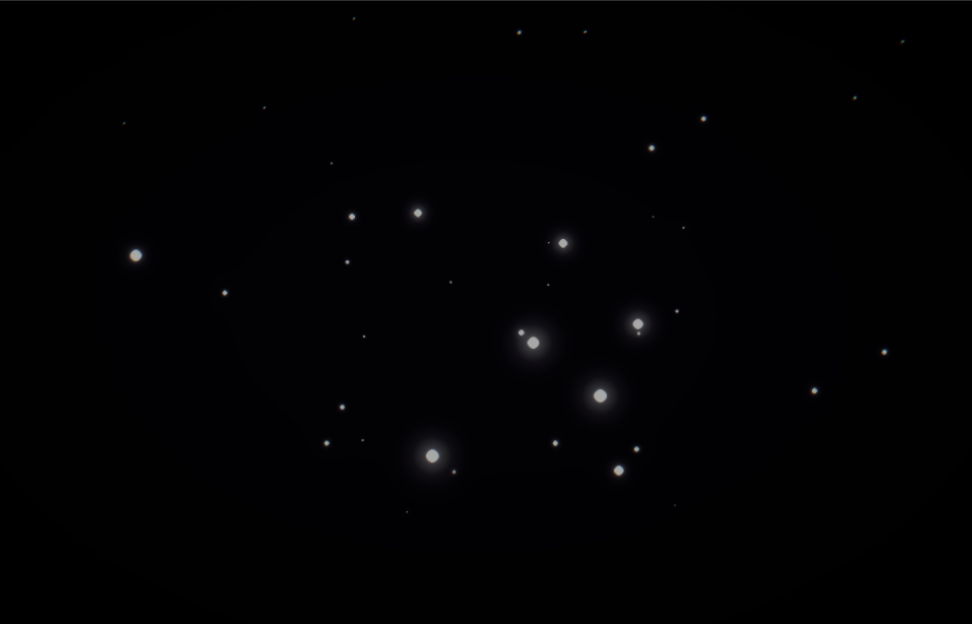
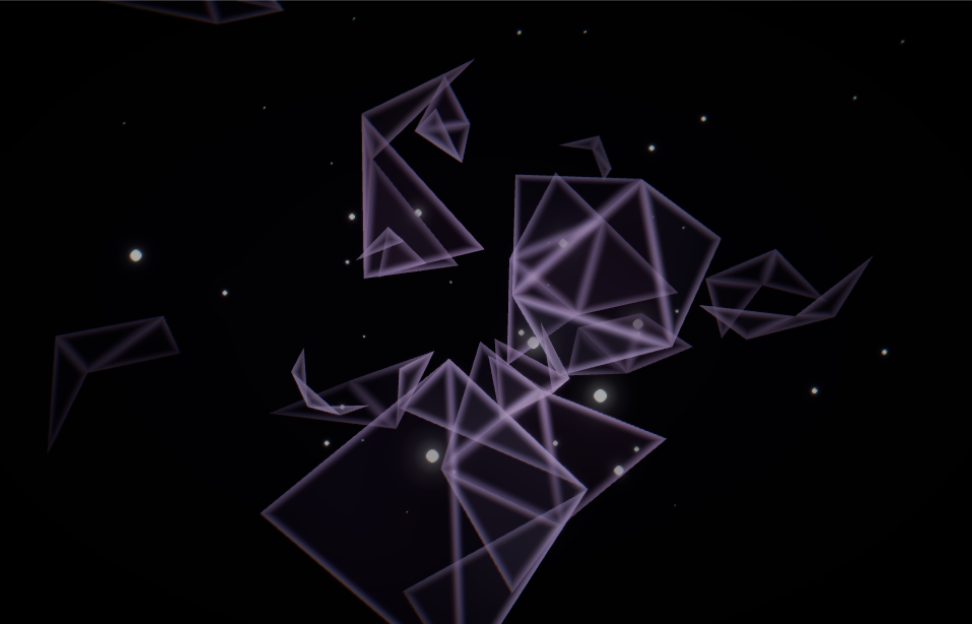
wi[p
abc

diff --git a/src/engine/scene-builder.js b/src/engine/scene-builder.js
@@ -4,6 +4,27 @@
  */
 
 import * as THREE from 'three';
+import { pickShapeType, extractFaces } from './polyhedra.js';
+import { createFaceGeometry } from './plane-geometry.js';
+import { createShardMaterial } from './materials.js';
+
+/**
+ * HSL to RGB in 0–1 range (h in degrees, s and l in 0–1).
+ */
+function hslToRgb01(h, s, l) {
+    h = ((h % 360) + 360) % 360;
+    const c = (1 - Math.abs(2 * l - 1)) * s;
+    const x = c * (1 - Math.abs(((h / 60) % 2) - 1));
+    const m = l - c / 2;
+    let r, g, b;
+    if (h < 60)       { r = c; g = x; b = 0; }
+    else if (h < 120) { r = x; g = c; b = 0; }
+    else if (h < 180) { r = 0; g = c; b = x; }
+    else if (h < 240) { r = 0; g = x; b = c; }
+    else if (h < 300) { r = x; g = 0; b = c; }
+    else              { r = c; g = 0; b = x; }
+    return [r + m, g + m, b + m];
+}
 
 /**
  * Solid white circle for the dot core.
@@ -59,12 +80,12 @@ function addDot(scene, pos, dotSize, spriteTexture, glowTexture, white, lightInt
     scene.add(core);
 
     // Glow halo — additive, larger than the core, intensity scales with size
-    const glowScale = dotSize * (4 + lightIntensity * 2);
+    const glowScale = Math.max(dotSize * 3, dotSize * (4 + lightIntensity * 2));
     const glowMat = new THREE.SpriteMaterial({
         map: glowTexture,
         color: white,
         transparent: true,
-        opacity: Math.min(1.0, 0.3 + lightIntensity * 0.15),
+        opacity: Math.min(1.0, Math.max(0.1, 0.3 + lightIntensity * 0.15)),
         blending: THREE.AdditiveBlending,
         depthWrite: false,
     });
@@ -74,12 +95,11 @@ function addDot(scene, pos, dotSize, spriteTexture, glowTexture, white, lightInt
     glow.renderOrder = 0;
     scene.add(glow);
 
-    // Point light — for illuminating future geometry
-    if (lightIntensity > 0.1) {
-        const light = new THREE.PointLight(0xffffff, lightIntensity, dotSize * 30, 1.5);
-        light.position.copy(pos);
-        scene.add(light);
-    }
+    // Point light — every dot emanates light, small dots get a faint one
+    const li = Math.max(0.05, lightIntensity);
+    const light = new THREE.PointLight(0xffffff, li, dotSize * 30 + 1.0, 1.5);
+    light.position.copy(pos);
+    scene.add(light);
 }
 
 /**
@@ -99,6 +119,10 @@ export function buildScene(params, rng, scene) {
     const largeMin = 0.09 - fracture * 0.025;
     const largeRange = 0.15 - fracture * 0.05;
 
+    const largeDotPositions = [];
+    const largeDotIntensities = [];
+    const largeDotSizes = [];
+
     for (let i = 0; i < largeDotCount; i++) {
         const sizeFactor = 0.4 + rng() * 0.6;
         const dotSize = largeMin + sizeFactor * largeRange;
@@ -111,6 +135,10 @@ export function buildScene(params, rng, scene) {
         // Large dots get strong light, scaled by size and luminosity
         const lightIntensity = (1.0 + sizeFactor * 2.0) * luminosity;
         addDot(scene, pos, dotSize, spriteTexture, glowTexture, white, lightIntensity);
+
+        largeDotPositions.push(pos.clone());
+        largeDotIntensities.push(lightIntensity);
+        largeDotSizes.push(dotSize);
     }
 
     // --- Small scattered dots: always ≥5× large count ---
@@ -133,5 +161,86 @@ export function buildScene(params, rng, scene) {
         addDot(scene, pos, dotSize, spriteTexture, glowTexture, white, lightIntensity);
     }
 
-    return { nodeCount: largeDotCount + smallDotCount };
+    // --- Crystal planes: translucent faces illuminated by dot lights ---
+    const unfoldAmount = params.unfoldAmount || 0;
+    const lightFractalLevel = Math.max(0, Math.min(1, fracture * luminosity));
+
+    let crystalFaceCount = 0;
+
+    // Helper: create a crystal cluster at a position and add its faces to the scene
+    function addCrystalCluster(clusterPos, scale, faces_max) {
+        const shapeType = pickShapeType(rng, fracture);
+        const orientation = new THREE.Quaternion().setFromEuler(
+            new THREE.Euler(rng() * Math.PI * 2, rng() * Math.PI * 2, rng() * Math.PI * 2),
+        );
+        const faces = extractFaces(shapeType, clusterPos, orientation, scale, rng, faces_max, unfoldAmount);
+
+        const hue = params.baseHue + (rng() * 2 - 1) * (params.hueRange * 0.5);
+        const baseColor = hslToRgb01(hue, params.saturation, params.lightness);
+
+        // Planes are passive — lit by dots, not self-luminous.
+        // Thin crisp edges, low emissive, light shines through.
+        const material = createShardMaterial({
+            baseColor,
+            edgeColor: params.edgeColor,
+            fogColor: params.fogColor,
+            opacity: params.opacity,
+            emissiveStrength: params.emissiveStrength * 0.3,
+            fresnelPower: params.fresnelPower,
+            edgeGlowStrength: params.edgeGlowStrength * 0.25,
+            fogDensity: params.fogDensity,
+            cameraDistance: params.cameraDistance,
+            nodePositions: largeDotPositions,
+            nodeIntensities: largeDotIntensities,
+            nodeCount: Math.min(8, largeDotPositions.length),
+            nodeBrightness: params.nodeBrightness * 0.25,
+            nodeRadius: Math.min(params.nodeRadius, 2.5),
+            causticStrength: params.causticStrength,
+            iridescenceStrength: params.iridescenceStrength,
+            lightFractalLevel,
+            edgeThickness: 8.0,
+            edgeBrightness: params.edgeBrightness * 0.35,
+        });
+
+        for (const face of faces) {
+            const { geometry, position, quaternion } = createFaceGeometry(face);
+            const mesh = new THREE.Mesh(geometry, material);
+            mesh.position.copy(position);
+            mesh.quaternion.copy(quaternion);
+            mesh.renderOrder = 2;
+            scene.add(mesh);
+        }
+        crystalFaceCount += faces.length;
+    }
+
+    // --- Primary clusters: one per anchor dot, 3–5 faces each ---
+    for (let i = 0; i < largeDotCount; i++) {
+        const dotPos = largeDotPositions[i];
+        const offDist = 0.5 + rng() * 0.8;
+        const offTheta = rng() * Math.PI * 2;
+        const offPhi = Math.acos(rng() * 2 - 1);
+        const crystalPos = dotPos.clone().add(new THREE.Vector3(
+            offDist * Math.sin(offPhi) * Math.cos(offTheta),
+            offDist * Math.sin(offPhi) * Math.sin(offTheta),
+            offDist * Math.cos(offPhi),
+        ));
+        const scale = 0.8 + rng() * 1.5;
+        const maxFaces = 3 + Math.round(fracture * 2);
+        addCrystalCluster(crystalPos, scale, maxFaces);
+    }
+
+    // --- Secondary planes: scattered throughout the volume ---
+    const secondaryCount = Math.round(3 + params.density * 10);
+    for (let i = 0; i < secondaryCount; i++) {
+        const pos = new THREE.Vector3(
+            (rng() * 2 - 1) * scatterRange * 1.4,
+            (rng() * 2 - 1) * scatterRange * 1.0,
+            (rng() * 2 - 1) * scatterRange * 0.8,
+        );
+        const scale = 0.5 + rng() * 1.2;
+        const maxFaces = 2 + Math.round(fracture * 2);
+        addCrystalCluster(pos, scale, maxFaces);
+    }
+
+    return { nodeCount: largeDotCount + smallDotCount, crystalFaceCount };
 }

diff --git a/src/main.js b/src/main.js
@@ -1534,12 +1534,20 @@ function switchStatementTab(tab, animate = true) {
     statementFlipping = true;
     const outgoing = currentTab === 'developer' ? el.developerBody : el.artistBody;
     const incoming = tab === 'developer' ? el.developerBody : el.artistBody;
+    const modalBody = el.statementModal.querySelector('.modal-body');
+    const modalBox = el.statementModal.querySelector('.modal-box');
     const FLIP_OUT_MS = 300;
+
+    /* Hide scrollbar for the entire transition (flip-out + flip-in) */
+    modalBody.style.overflow = 'hidden';
 
     outgoing.classList.add('coin-flip-out');
     el.statementTitle.classList.add('coin-flip-out');
 
     setTimeout(() => {
+        /* Suppress the modal-box height transition so it snaps instantly */
+        modalBox.style.transition = 'none';
+
         outgoing.classList.remove('coin-flip-out');
         outgoing.classList.add('hidden');
 
@@ -1550,11 +1558,17 @@ function switchStatementTab(tab, animate = true) {
         incoming.classList.add('coin-flip-in');
         el.statementTitle.classList.add('coin-flip-in');
 
-        el.statementModal.querySelector('.modal-body').scrollTop = 0;
+        modalBody.scrollTop = 0;
+
+        /* Force reflow so the box settles at its new height before
+           re-enabling transitions */
+        void modalBox.offsetHeight;
+        modalBox.style.transition = '';
 
         const cleanup = () => {
             incoming.classList.remove('coin-flip-in');
             el.statementTitle.classList.remove('coin-flip-in');
+            modalBody.style.overflow = '';
             statementFlipping = false;
         };
         incoming.addEventListener('animationend', cleanup, { once: true });
